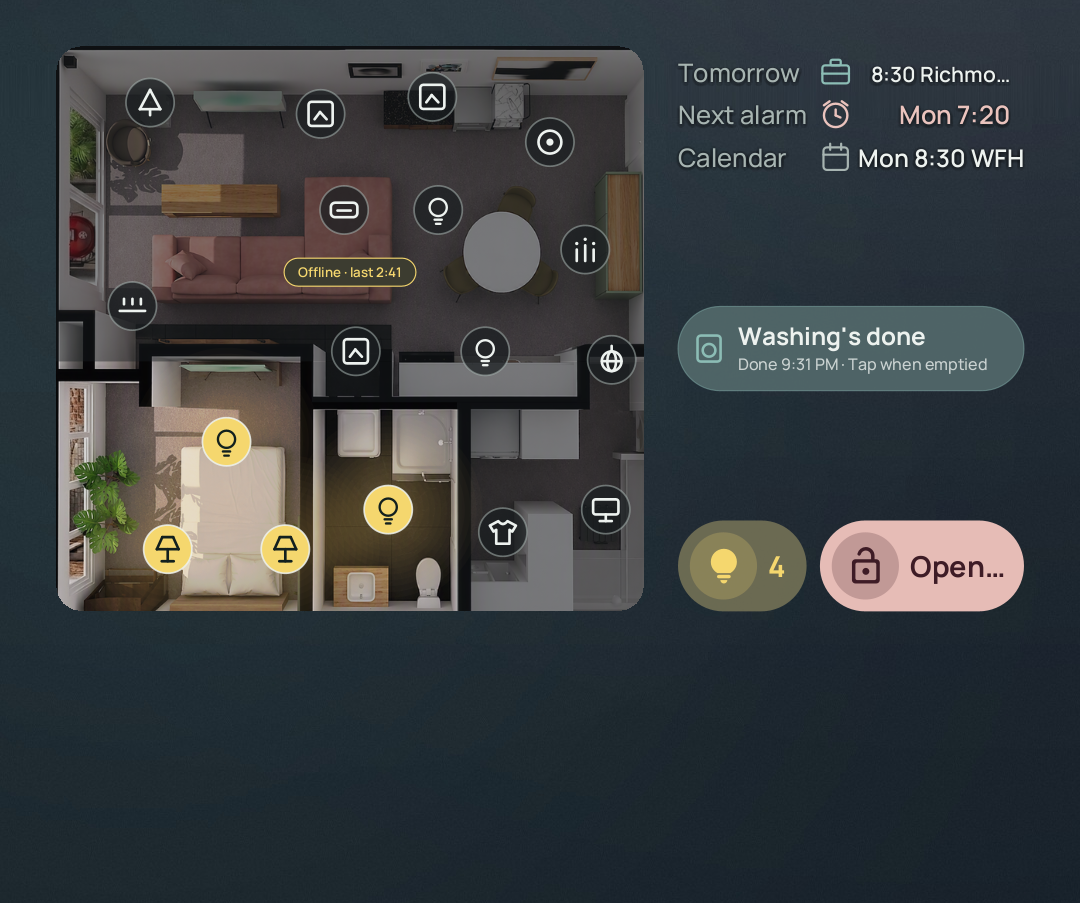
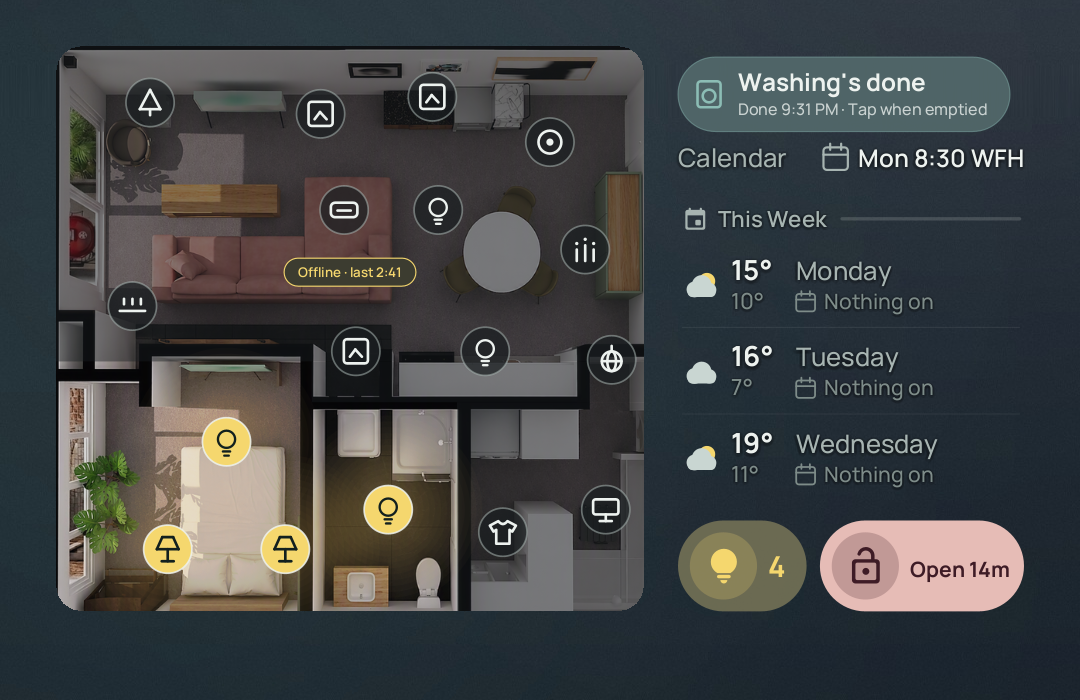
Alerts take the top rows, door label fits, 'Next up' row, home-handler rename and link

diff --git a/src/com/baeo/widgets/BaeoHomeRender.java b/src/com/baeo/widgets/BaeoHomeRender.java
@@ -317,12 +317,12 @@ public final class BaeoHomeRender {
         Geo g = geo(st.mediaShow, hasStatus(st), w, h);
         float u = s * Math.max(0.62f, Math.min(1.25f, g.plan.height() / s / MAIN_H));
         float iconX = iconColumn(st, f, g.word, u);
-        drawWork(c, st, f, g.word, u, iconX);
-        drawAlarm(c, st, f, g.alarm, u, iconX);
+        // A house alert (washing done, door left open, leak...) takes the Tomorrow / Next alarm rows until it's sorted.
+        if (hasAlert(st)) drawAlert(c, st, f, new RectF(g.word.left, g.word.top, g.word.right, g.alarm.bottom), u);
+        else { drawWork(c, st, f, g.word, u, iconX); drawAlarm(c, st, f, g.alarm, u, iconX); }
         if (g.event.height() > 0) drawEvent(c, st, f, g.event, u, iconX);
         // A house alert (washing done, door left open, leak...) takes the forecast's place until it's resolved.
-        if (hasAlert(st)) drawAlert(c, st, f, g.forecast, u);
-        else drawForecast(c, st, f, g.forecast, u, iconX);
+        drawForecast(c, st, f, g.forecast, u, iconX);
         drawChips(c, st, f, g, u);
         if (g.feed != null) drawFeed(c, st, f, g.feed, s);
         if (st.mediaShow) drawMedia(c, st, f, g, s);
@@ -415,7 +415,7 @@ public final class BaeoHomeRender {
     private static void drawAlert(Canvas c, HomeState st, Fonts f, RectF r, float u) {
         int col = "alarm".equals(st.alertSeverity) ? BAD : ("warning".equals(st.alertSeverity) ? WARN : ACCENT);
         float cy = r.centerY();
-        float ch = Math.min(r.height() * 0.40f, 38f * u);
+        float ch = Math.min(r.height() * 0.44f, 38f * u);
         RectF pill = new RectF(r.left, cy - ch, r.right, cy + ch);
         c.drawRoundRect(pill, ch, ch, paint(alpha(blend(TONAL, col, 0.30f), 0.92f)));
         c.drawRoundRect(pill, ch, ch, stroke(alpha(col, 0.45f), 1f * u));
@@ -436,7 +436,7 @@ public final class BaeoHomeRender {
             rowText(c, r, u, "Motion", rowLabel(f, u), "Paused", rowValue(f, u, WARN), iconX);
         } else if (hasWork(st) && !eventIsWork(st)) {
             drawCalendarGlyph(c, iconX, r.centerY(), 11f * u, MUTE);
-            rowText(c, r, u, "Calendar", rowLabel(f, u), st.nextEvent, rowValue(f, u, INK), iconX);
+            rowText(c, r, u, "Next up", rowLabel(f, u), st.nextEvent, rowValue(f, u, INK), iconX);
         }
     }
 
@@ -572,6 +572,7 @@ public final class BaeoHomeRender {
             c.drawText(fit(label, lt, room), tx, cy + 18f * u, lt);
         } else {
             Paint lt = text(tc, f.m700, 26f * u);   // same size in both buttons
+            while (lt.measureText(label) > room && lt.getTextSize() > 19f * u) lt.setTextSize(lt.getTextSize() - 0.5f * u);   // "Open 14m" shrinks to fit
             c.drawText(fit(label, lt, room), tx, cy + 10f * u, lt);
         }
     }
@@ -632,7 +633,7 @@ public final class BaeoHomeRender {
     // ---------------------------------------------------------------- notify feed (terminal style, no panel)
     private static int feedColour(String src) {
         switch (src == null ? "" : src) {
-            case "house-agent": return ROSE;
+            case "house-agent": case "home-handler": return ROSE;
             case "you": return ACCENT;
             case "unifi": return HARBOUR;
             case "health": return APPLE;
@@ -725,13 +726,13 @@ public final class BaeoHomeRender {
             c.drawText("$ ", px, y, pd); px += pd.measureText("$ ");
             Paint hint = shaded(alpha(MUTE, 0.55f), mono, 22f * s);
             c.drawRect(new RectF(px, y - 19f * s, px + 13f * s, y + 4f * s), paint(BLUSH));
-            c.drawText("ask the house agent", px + 20f * s, y, hint);
+            c.drawText("ask home-handler", px + 20f * s, y, hint);
             return;
         }
         if (PROMPT_STYLE == 3) {   // starship-style: path, host, chevron; time on the right
             c.drawText("~", px, y, pp); px += pp.measureText("~ ");
             Paint host = shaded(ROSE, monoB, 22f * s);
-            c.drawText("@home-agent", px, y, host); px += host.measureText("@home-agent ");
+            c.drawText("@home-handler", px, y, host); px += host.measureText("@home-handler ");
             Paint chev = shaded(ACCENT, monoB, 24f * s);
             c.drawText("\u276F", px, y, chev); px += chev.measureText("\u276F ");
             c.drawRect(new RectF(px, y + 1f * s, px + 15f * s, y + 4.5f * s), paint(BLUSH));   // underscore cursor

diff --git a/src/com/baeo/widgets/BaeoBriefWidgetProvider.java b/src/com/baeo/widgets/BaeoBriefWidgetProvider.java
@@ -142,13 +142,14 @@ public class BaeoBriefWidgetProvider extends AppWidgetProvider {
             rv.setViewVisibility(R.id.hit_feed, g.feed != null ? View.VISIBLE : View.GONE);
             rv.setViewVisibility(R.id.hit_cmd, g.feed != null ? View.VISIBLE : View.GONE);
             // Both top rows (Tomorrow, Next alarm) open the Clock app's alarms.
-            place(rv, R.id.hit_now, g.word, scale, openAlarms(context));
-            place(rv, R.id.hit_alarm, g.alarm, scale, openAlarms(context));
+            boolean alerting = BaeoHomeRender.hasAlert(st);   // the alert sits in these two rows; a tap resolves it
+            place(rv, R.id.hit_now, g.word, scale, alerting ? tap(context, BaeoActionReceiver.ACTION_RESOLVE_ALERT, null, 14) : openAlarms(context));
+            place(rv, R.id.hit_alarm, g.alarm, scale, alerting ? tap(context, BaeoActionReceiver.ACTION_RESOLVE_ALERT, null, 16) : openAlarms(context));
             place(rv, R.id.hit_event, g.event, scale, tap(context, BaeoActionReceiver.ACTION_STATUS, null, 11));
             // While an alert is showing it sits where the forecast was, and a tap resolves it.
             // This Week: each day card opens the calendar on that day (an alert card resolves instead).
             int[] dayIds = {R.id.hit_day_0, R.id.hit_day_1, R.id.hit_day_2};
-            boolean al = BaeoHomeRender.hasAlert(st);
+            boolean al = false;   // the day cards stay put now that alerts use the top rows
             RectF[] cards = BaeoHomeRender.dayCards(g);
             for (int i = 0; i < 3; i++) {
                 if (!al && cards != null) place(rv, dayIds[i], cards[i], scale, openCalendar(context, i + 1, 54 + i));
@@ -156,9 +157,7 @@ public class BaeoBriefWidgetProvider extends AppWidgetProvider {
             }
             if (g.feed != null) place(rv, R.id.hit_feed_title, new RectF(g.feed.left, g.feed.top, g.feed.right, g.feed.top + 46f * (wPx / 980f)), scale, openUrl(context, Secrets.AGENT_PAGE_URL, 57));
             rv.setViewVisibility(R.id.hit_feed_title, g.feed != null ? View.VISIBLE : View.GONE);
-            place(rv, R.id.hit_forecast, g.forecast, scale, BaeoHomeRender.hasAlert(st)
-                    ? tap(context, BaeoActionReceiver.ACTION_RESOLVE_ALERT, null, 14)
-                    : tap(context, BaeoActionReceiver.ACTION_REFRESH, null, 10));
+            place(rv, R.id.hit_forecast, g.forecast, scale, tap(context, BaeoActionReceiver.ACTION_REFRESH, null, 10));
             // Icon buttons sit in equal thirds of the pill row; tap zones follow them.
             RectF prow = new RectF(g.disco.left, g.disco.top, g.door.right, g.disco.bottom);
             float t3 = prow.width() / 3f;

diff --git a/src/com/baeo/widgets/AgentTerminalActivity.java b/src/com/baeo/widgets/AgentTerminalActivity.java
@@ -67,7 +67,7 @@ public class AgentTerminalActivity extends Activity {
         head.setTypeface(mono);
         head.setTextSize(12);
         head.setTextColor(BaeoHomeRender.SUBTLE);
-        head.setText("bae@home: ~/agent   (help for commands)");
+        head.setText("bae@home: ~/home-handler   (help for commands)");
         root.addView(head);
 
         scroll = new ScrollView(this);
@@ -147,7 +147,7 @@ public class AgentTerminalActivity extends Activity {
                 for (int i = 0; i < lines.length; i++) lines[i] = a.optString(i);
                 if ("error".equals(res.optString("kind"))) col = BaeoHomeRender.WARN;
             } catch (Throwable t) {
-                lines = new String[]{"can't reach the house agent (" + t.getClass().getSimpleName() + ")"};
+                lines = new String[]{"can't reach home-handler (" + t.getClass().getSimpleName() + ")"};
                 col = BaeoHomeRender.BAD;
             }
             final String[] fl = lines;
@@ -156,7 +156,7 @@ public class AgentTerminalActivity extends Activity {
                 int n = log.length();
                 if (n >= 2) log.delete(n - 2, n);   // drop the "…" line
                 for (String l : fl) append(l, fc);
-                BaeoNotifyListener.addLocal(this, "house-agent", String.join(" · ", fl));
+                BaeoNotifyListener.addLocal(this, "home-handler", String.join(" · ", fl));
                 BaeoBriefWidgetProvider.updateAll(this);
                 busy = false;
             });

diff --git a/tools/Preview.java b/tools/Preview.java
@@ -72,7 +72,7 @@ public class Preview {
         f.mono = Typeface.createFromFile("/usr/share/fonts/truetype/dejavu/DejaVuSansMono.ttf");
         f.monoBold = Typeface.createFromFile("/usr/share/fonts/truetype/dejavu/DejaVuSansMono-Bold.ttf");
         wfh.feedTime = new String[]{"09:41", "08:00", "07:58", "07:00", "06:30"};
-        wfh.feedSrc = new String[]{"house-agent", "unifi", "washer", "ha", "unifi"};
+        wfh.feedSrc = new String[]{"home-handler", "unifi", "washer", "ha", "unifi"};
         wfh.feedTitle = new String[]{"House notes", "UniFi weekly review", "Washing's done", "Updating sensors", "UniFi 24h"};
         wfh.feedMsg = new String[]{"Door was unlocked 12 min this morning", "2 new devices, 0 threats blocked", "Finished 7:58 · tap when emptied", "", "52 events, 0 threats"};
         save(BaeoHomeRender.render(wfh, f, 980, 988), out + "/home_feed.png");

diff --git a/src/com/baeo/widgets/BaeoNotifyListener.java b/src/com/baeo/widgets/BaeoNotifyListener.java
@@ -94,7 +94,7 @@ public class BaeoNotifyListener extends NotificationListenerService {
     static String source(String tag, String title, String text) {
         String t = tag == null ? "" : tag.toLowerCase(Locale.US);
         String all = (t + " " + title + " " + text).toLowerCase(Locale.US);
-        if (all.contains("houseagent") || all.contains("house notes") || all.contains("house agent")) return "house-agent";
+        if (all.contains("houseagent") || all.contains("house notes") || all.contains("house agent") || all.contains("home-handler")) return "home-handler";
         if (t.startsWith("house_health")) return "health";   // the homelab health check (remotes, NAS, devices)
         if (all.contains("unifi")) return "unifi";
         if (all.contains("wash") || all.contains("dryer")) return "washer";

diff --git a/README.md b/README.md
@@ -13,9 +13,9 @@ The home screen widget on my Pixel 10a. One glance tells me what the flat is doi
 - **This Week.** Three day cards: weather, the date, and that day's calendar event (WFH, or the office as a short code). Tap a day and the calendar opens on it.
 - **Lights and door.** Bubble-style buttons on the floorplan's edge that show state and control all lights and my door.
 - **Now playing.** A Bubble Card style pill for the Club Sonos: Tap the art and my Sets app opens.
-- **A terminal.** The last five Home Assistant notifications as log lines (house agent notes, UniFi watcher, the washer, health checks), each source in its own colour. The title bar says `[ OK ]` or `[WARN] door unlocked`, the corner shows HA latency and the last sync. Tap the prompt and you can type to my house agent: `status`, `waiting`, or just ask it something.
+- **A terminal.** The last five Home Assistant notifications as log lines (home-handler notes, UniFi watcher, the washer, health checks), each source in its own colour. The title bar says `[ OK ]` or `[WARN] door unlocked`, the corner shows HA latency and the last sync. Tap the prompt and you can type to [home-handler](https://github.com/baes-cloud/home-handler), the service that watches my house: `status`, `waiting`, or just ask it something.
 
-If the house needs something (a leak, the washing's done), an alert card takes the weather's place until it's sorted.
+If the house needs something (a leak, the washing's done), an alert card takes the Tomorrow and Next alarm rows until it's sorted.
 
 ![A house alert](docs/screenshots/widget-alert.png)
 
@@ -24,14 +24,14 @@ If the house needs something (a leak, the washing's done), an alert card takes t
 1. `HaClient` pulls `/api/states` from Home Assistant every few minutes (every minute while music plays) and the work calendar for the next few days, and caches it.
 2. `BaeoHomeRender` draws the whole widget into one bitmap. `geo()` decides where everything sits and the provider places every tap zone from the same rects, so the picture and the touch targets can't drift apart.
 3. `BaeoNotifyListener` reads only the Home Assistant app's notifications for the terminal (needs notification access).
-4. `AgentTerminalActivity` is the little terminal that pops up over the home screen and posts commands to the house agent.
+4. `AgentTerminalActivity` is the little terminal that pops up over the home screen and posts commands to home-handler.
 
 ### Away from home (Cloudflare)
 
 LAN first, always. If the LAN can't be reached:
 
 - **Home Assistant** goes to its public hostname through a Cloudflare Tunnel. Access lets that host through and the HA token is the gate (the HA companion app can't send Access headers anyway).
-- **The house agent** goes to its own hostname behind Cloudflare Access, using a **service token** made just for this widget. Access only admits that token, and the agent also checks Access's signed JWT is from it, plus its own command token.
+- **home-handler** goes to its own hostname behind Cloudflare Access, using a **service token** made just for this widget. Access only admits that token, and home-handler also checks Access's signed JWT is from it, plus its own command token.
 - After a LAN failure the widget stays on the cloud route for five minutes, then tries home again. The terminal's corner says `cloud 350ms` instead of `ha 40ms`, so I can see which way it went.
 
 ## Build
